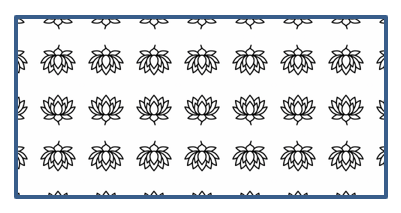
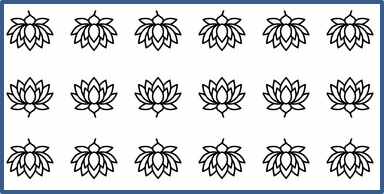
SLIDESDOC-643 Add the section "Tile Picture As Texture" to the articles for other platforms
Updated the article "Format PowerPoint Shapes in Python".

diff --git a/en/python-net/developer-guide/presentation-content/powerpoint-shapes/shape-formatting/_index.md b/en/python-net/developer-guide/presentation-content/powerpoint-shapes/shape-formatting/_index.md
@@ -46,7 +46,7 @@ Using Aspose.Slides, you can specify a custom line style for a shape. The follow
 1. Set the line color for the shape.
 1. Save the modified presentation as a PPTX file.
 
-This Python code demonstrates how to format a rectangle `AutoShape`:
+The following Python code demonstrates how to format a rectangle `AutoShape`:
 
 ```python
 import aspose.slides as slides
@@ -54,6 +54,7 @@ import aspose.pydrawing as draw
 
 # Instantiate the Presentation class that represents a presentation file.
 with slides.Presentation() as presentation:
+
     # Get the first slide.
     slide = presentation.slides[0]
 
@@ -72,7 +73,7 @@ with slides.Presentation() as presentation:
     shape.line_format.fill_format.fill_type = slides.FillType.SOLID
     shape.line_format.fill_format.solid_fill_color.color = draw.Color.blue
 
-    # Write the PPTX file to disk.
+    # Save the PPTX file to disk.
     presentation.save("formatted_lines.pptx", slides.export.SaveFormat.PPTX)
 ```
 
@@ -92,7 +93,7 @@ By default, when PowerPoint joins two lines at an angle (such as at a shape’s 
 
 ![The join style in the presentation](join-style-powerpoint.png)
 
-This Python code demonstrates how three rectangles (as shown in the image above) were created using the Miter, Bevel, and Round join type settings:
+The following Python code demonstrates how three rectangles (as shown in the image above) were created using the Miter, Bevel, and Round join type settings:
 
 ```python
 import aspose.slides as slides
@@ -100,6 +101,7 @@ import aspose.pydrawing as draw
 
 # Instantiate the Presentation class that represents a presentation file.
 with slides.Presentation() as presentation:
+
 	# Get the first slide.
 	slide = presentation.slides[0]
 
@@ -139,7 +141,7 @@ with slides.Presentation() as presentation:
 	shape2.text_frame.text = "Bevel Join style"
 	shape3.text_frame.text = "Round Join style"
 
-	# Write the PPTX file to disk.
+	# Save the PPTX file to disk.
 	presentation.save("join_styles.pptx", slides.export.SaveFormat.PPTX)
 ```
 
@@ -160,10 +162,10 @@ The following Python code demonstrates how to apply a gradient fill effect to an
 
 ```python
 import aspose.slides as slides
-import aspose.pydrawing as draw
 
 # Instantiate the Presentation class that represents a presentation file.
 with slides.Presentation() as presentation:
+
     # Get the first slide.
     slide = presentation.slides[0]
 
@@ -181,7 +183,7 @@ with slides.Presentation() as presentation:
     shape.fill_format.gradient_format.gradient_stops.add(1.0, slides.PresetColor.PURPLE)
     shape.fill_format.gradient_format.gradient_stops.add(0, slides.PresetColor.RED)
 
-    # Write the PPTX file to disk.
+    # Save the PPTX file to disk.
     presentation.save("gradient_fill.pptx", slides.export.SaveFormat.PPTX)
 ```
 
@@ -214,6 +216,7 @@ import aspose.pydrawing as draw
 
 # Instantiate the Presentation class that represents a presentation file.
 with slides.Presentation() as presentation:
+
     # Get the first slide.
     slide = presentation.slides[0]
 
@@ -230,7 +233,7 @@ with slides.Presentation() as presentation:
     shape.fill_format.pattern_format.back_color.color = draw.Color.light_gray
     shape.fill_format.pattern_format.fore_color.color = draw.Color.yellow
 
-    # Write the PPTX file to disk.
+    # Save the PPTX file to disk.
     presentation.save("pattern_fill.pptx", slides.export.SaveFormat.PPTX)
 ```
 
@@ -261,10 +264,10 @@ The following Python code demonstrates how to fill a shape with the picture:
 
 ```python
 import aspose.slides as slides
-import aspose.pydrawing as draw
 
 # Instantiate the Presentation class that represents a presentation file.
 with slides.Presentation() as presentation:
+
     # Get the first slide.
     slide = presentation.slides[0]
 
@@ -284,13 +287,67 @@ with slides.Presentation() as presentation:
     # Set the picture.
     shape.fill_format.picture_fill_format.picture.image = presentation_image
 
-    # Write the PPTX file to disk.
+    # Save the PPTX file to disk.
     presentation.save("picture_fill.pptx", slides.export.SaveFormat.PPTX)
 ```
 
 The result:
 
 ![The shape with picture fill](picture-fill.png)
+
+### **Tile Picture As Texture**
+
+If you want to set a tiled picture as a texture and customize the tiling behavior, you can use the following properties of the [PictureFillFormat](https://reference.aspose.com/slides/python-net/aspose.slides/picturefillformat/) class:
+
+- [picture_fill_mode](https://reference.aspose.com/slides/python-net/aspose.slides/picturefillformat/picture_fill_mode/): Sets the picture fill mode—either `TILE` or `STRETCH`.
+- [tile_alignment](https://reference.aspose.com/slides/python-net/aspose.slides/picturefillformat/tile_alignment/): Specifies the alignment of the tiles within the shape.
+- [tile_flip](https://reference.aspose.com/slides/python-net/aspose.slides/picturefillformat/tile_flip/): Controls whether the tile is flipped horizontally, vertically, or both.
+- [tile_offset_x](https://reference.aspose.com/slides/python-net/aspose.slides/picturefillformat/tile_offset_x/): Sets the horizontal offset of the tile (in points) from the shape’s origin.
+- [tile_offset_y](https://reference.aspose.com/slides/python-net/aspose.slides/picturefillformat/tile_offset_y/): Sets the vertical offset of the tile (in points) from the shape’s origin.
+- [tile_scale_x](https://reference.aspose.com/slides/python-net/aspose.slides/picturefillformat/tile_scale_x/): Defines the horizontal scale of the tile as a percentage.
+- [tile_scale_y](https://reference.aspose.com/slides/python-net/aspose.slides/picturefillformat/tile_scale_y/): Defines the vertical scale of the tile as a percentage.
+
+The following code sample shows how to add a rectangle shape with a tiled picture fill and configure tile options:
+
+```py
+import aspose.slides as slides
+
+# Instantiate the Presentation class that represents a presentation file.
+with slides.Presentation() as presentation:
+
+    # Get the first slide.
+    first_slide = presentation.slides[0]
+
+    # Add a rectangle auto shape.
+    shape = first_slide.shapes.add_auto_shape(slides.ShapeType.RECTANGLE, 50, 50, 190, 95)
+
+    # Set the fill type of the shape to Picture.
+    shape.fill_format.fill_type = slides.FillType.PICTURE
+
+    # Load the image and add it to the presentation resources.
+    with slides.Images.from_file("lotus.png") as source_image:
+        presentation_image = presentation.images.add_image(source_image)
+
+    # Assign the image to the shape.
+    picture_fill_format = shape.fill_format.picture_fill_format
+    picture_fill_format.picture.image = presentation_image
+
+    # Configure the picture fill mode and tiling properties.
+    picture_fill_format.picture_fill_mode = slides.PictureFillMode.TILE
+    picture_fill_format.tile_offset_x = -32
+    picture_fill_format.tile_offset_y = -32
+    picture_fill_format.tile_scale_x = 50
+    picture_fill_format.tile_scale_y = 50
+    picture_fill_format.tile_alignment = slides.RectangleAlignment.BOTTOM_RIGHT
+    picture_fill_format.tile_flip = slides.TileFlip.FLIP_BOTH
+
+    # Save the PPTX file to disk.
+    presentation.save("tile.pptx", slides.export.SaveFormat.PPTX)
+```
+
+The result:
+
+![The tile options](tile-options.png)
 
 ## **Solid Color Fill**
 
@@ -326,7 +383,7 @@ with slides.Presentation() as presentation:
     # Set the fill color.
     shape.fill_format.solid_fill_color.color = draw.Color.yellow
 
-    # Write the PPTX file to disk.
+    # Save the PPTX file to disk.
     presentation.save("solid_color_fill.pptx", slides.export.SaveFormat.PPTX)
 ```
 
@@ -347,7 +404,7 @@ Aspose.Slides lets you set the transparency level by adjusting the alpha value i
 1. Use `Color.from_argb` to define a color with transparency (the `alpha` component controls transparency).
 1. Save the presentation.
 
-This Python code demonstrates how to apply a transparent fill color to a rectangle:
+The following Python code demonstrates how to apply a transparent fill color to a rectangle:
 
 ```python
 import aspose.pydrawing as draw
@@ -355,6 +412,7 @@ import aspose.slides as slides
 
 # Instantiate the Presentation class that represents a presentation file.
 with slides.Presentation() as presentation:
+
     # Get the first slide.
     slide = presentation.slides[0]
     
@@ -385,14 +443,14 @@ To rotate a shape on a slide, follow these steps:
 1. Set the shape’s `rotation` property to the desired angle.
 1. Save the presentation.
 
-This Python code demonstrates how to rotate a shape by 5 degrees:
+The following Python code demonstrates how to rotate a shape by 5 degrees:
 
 ```python
 import aspose.slides as slides
-import aspose.pydrawing as draw
 
 # Instantiate the Presentation class that represents a presentation file.
 with slides.Presentation() as presentation:
+
     # Get the first slide.
     slide = presentation.slides[0]
 
@@ -402,7 +460,7 @@ with slides.Presentation() as presentation:
     # Rotate the shape by 5 degrees.
     shape.rotation = 5
 
-    # Write the PPTX file to disk.
+    # Save the PPTX file to disk.
     presentation.save("shape_rotation.pptx", slides.export.SaveFormat.PPTX)
 ```
 
@@ -422,7 +480,7 @@ To add 3D bevel effects to a shape, follow these steps:
 1. Configure the shape’s [ThreeDFormat](https://reference.aspose.com/slides/python-net/aspose.slides/threedformat/) to define bevel settings.
 1. Save the presentation.
 
-This Python code shows how to apply 3D bevel effects to a shape:
+The following Python code shows how to apply 3D bevel effects to a shape:
 
 ```python
 import aspose.slides as slides
@@ -430,6 +488,7 @@ import aspose.pydrawing as draw
 
 # Create an instance of the Presentation class.
 with slides.Presentation() as presentation:
+
     slide = presentation.slides[0]
 
     # Add a shape to the slide.
@@ -449,7 +508,7 @@ with slides.Presentation() as presentation:
     shape.three_d_format.light_rig.light_type = slides.LightRigPresetType.THREE_PT
     shape.three_d_format.light_rig.direction = slides.LightingDirection.TOP
 
-    # Write the presentation as a PPTX file.
+    # Save the presentation as a PPTX file.
     presentation.save("3D_bevel_effect.pptx", slides.export.SaveFormat.PPTX)
 ```
 
@@ -457,7 +516,7 @@ The result:
 
 ![The 3D bevel effect](3D-bevel-effect.png)
 
-## **Add 3D Rotation Effect**
+## **Add 3D Rotation Effects**
 
 Aspose.Slides allows you to apply 3D rotation effects to shapes by configuring their [ThreeDFormat](https://reference.aspose.com/slides/python-net/aspose.slides/threedformat/) properties.
 
@@ -469,14 +528,14 @@ To apply 3D rotation to a shape:
 1. Set the shape's [camera_type](https://reference.aspose.com/slides/python-net/aspose.slides/camera/camera_type/) and [light_type](https://reference.aspose.com/slides/python-net/aspose.slides/lightrig/light_type/) to define the 3D rotation.
 1. Save the presentation.
 
-This Python code demonstrates how to apply 3D rotation effects to a shape:
+The following Python code demonstrates how to apply 3D rotation effects to a shape:
 
 ```python
 import aspose.slides as slides
-import aspose.pydrawing as draw
 
 # Create an instance of the Presentation class.
 with slides.Presentation() as presentation:
+
     slide = presentation.slides[0]
 
     auto_shape = slide.shapes.add_auto_shape(slides.ShapeType.RECTANGLE, 50, 50, 150, 75)
@@ -487,7 +546,7 @@ with slides.Presentation() as presentation:
     auto_shape.three_d_format.camera.camera_type = slides.CameraPresetType.ISOMETRIC_LEFT_UP
     auto_shape.three_d_format.light_rig.light_type = slides.LightRigPresetType.BALANCED
 
-    # Write the presentation as a PPTX file.      
+    # Save the presentation as a PPTX file.      
     presentation.save("3D_rotation_effect.pptx", slides.export.SaveFormat.PPTX)
 ```
 
@@ -497,13 +556,30 @@ The result:
 
 ## **Reset Formatting**
 
-This Python code shows how to reset the formatting of a slide and revert the position, size, and formatting of all shapes with placeholders on the [LayoutSlide](https://reference.aspose.com/slides/python-net/aspose.slides/layoutslide/) to their default settings:
+The following Python code shows how to reset the formatting of a slide and revert the position, size, and formatting of all shapes with placeholders on the [LayoutSlide](https://reference.aspose.com/slides/python-net/aspose.slides/layoutslide/) to their default settings:
 
 ```python
 import aspose.slides as slides
 
-with slides.Presentation() as presentation:
+with slides.Presentation("sample.pptx") as presentation:
+
     for slide in presentation.slides:
         # Reset each shape on the slide that has a placeholder on the layout.
         slide.reset()
+
+    presentation.save("reset_formatting.pptx", slides.export.SaveFormat.PPTX)
 ```
+
+## **FAQs**
+
+**Does shape formatting affect the final presentation file size?**
+
+Only minimally. Embedded images and media occupy most of the file space, while shape parameters such as colors, effects, and gradients are stored as metadata and add virtually no extra size.
+
+**How can I detect shapes on a slide that share identical formatting so I can group them?**
+
+Compare each shape’s key formatting properties—fill, line, and effect settings. If all corresponding values match, treat their styles as identical and logically group those shapes, which simplifies later style management.
+
+**Can I save a set of custom shape styles to a separate file for reuse in other presentations?**
+
+Yes. Store sample shapes with the desired styles in a template slide deck or a .POTX template file. When creating a new presentation, open the template, clone the styled shapes you need, and re‑apply their formatting wherever required.
